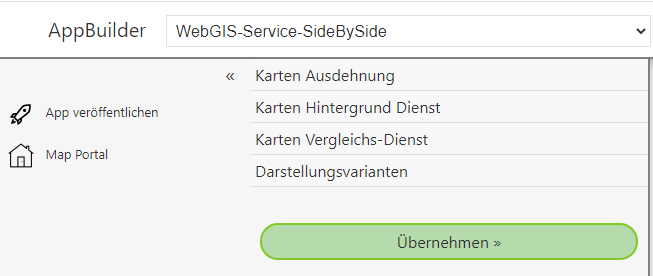
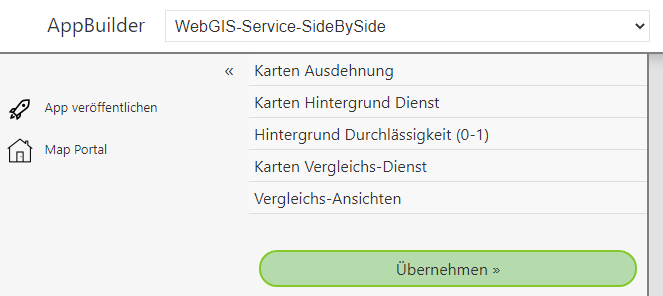
webgis-docs: AppBuilder

Changed region(s): [[0.0, 0.0, 1.0, 1.0], [0.0, 0.3188, 0.245, 0.6087]]

diff --git a/de/webgis-cloud/source/AppBuilder/service-side-by-side/index.rst b/de/webgis-cloud/source/AppBuilder/service-side-by-side/index.rst
@@ -1,5 +1,5 @@
-Service Side-by-Side
-====================
+App Template: Service Side-by-Side
+==================================
 
 Mit dieser Vorlage gesteht die Möglichkeit einen Kartendienst in unterschiedlichen Darstellungen nebeneinander darzustellen.
 Die Trennlinie zwischen den beiden Darstellungen ist dabei frei verschiebar, damit besserer Eindruck der Unterschiede erkennbar wird.
@@ -11,3 +11,72 @@ Wähle man die Vorlauge aus, können folgende Parameter angegeben werden:
 
 .. image:: img/side-by-side1.png
 
+Hier eine Beschreibung der einzelnen Parameter:
+
+Karten Ausdehnung
+-----------------
+
+Für jede WebGIS API Karten Anwendung muss eine Kartenausdehnung angegeben werden. Neben der Ausdehnung werden damit auch die Zoomstufen und die Kartenprojektion 
+definiert (siehe Definition einer Ausdehnung im CMS).
+Hier werden alle verfügbaren Ausdehnung aus dem CMS aufgelistet. Durch anklicken eines Elements wird diesen ausgewählt.
+
+Karten Hintergrund Dienst
+-------------------------
+
+Der Kartendienst, der zum Vergleich herangezogen wird, ist in der Regel im WMS/AGS Dienst. Diese haben den Nachteil, dass die Anzeige nicht so flüssig erscheint, 
+wie bei einem vorprozessierten *Tiling* Dienst. Damit die App beim Verändern des Kartenausschnittes trotzdem flüssig wirkt, muss hier Hintergrund Dienst angegeben werden,
+der unter dem eigentlich Dienst, der verglichen werden sollte, dargestellt wird.
+
+.. note:: 
+   Der Hintergrund Dienst sollte ein *Tiling* Dienst sein. Außerdem ist darauf zu achten, dass der Dienst zur oben gewählten Ausdehnung passt (Projektion und Zoomstufen)
+
+Hintergrund Durchlässigkeit
+---------------------------
+
+Da der Hintergrund Dienst nur der Usability und der Orientierung dient, es also quasi ein Nebendarsteller in der Anwendung ist, kann dieser transparent (aufgehellt) dargestellt werden.
+Hier kann ein Wert zwischen 0 und 1 angeben werden, wobei ``0`` komplett durchlässig und ``1`` komplett deckend bedeutet.
+
+Karten Vergleichs Dienst
+------------------------
+
+Hier wird der eigentliche Dienste angegeben, der verglichen werden soll. Es werden wieder alle im CMS Verfügbaren Dienste aufgelistet. Es kann dabei genau ein Dienst ausgewählt werden.
+
+Vergleichs-Ansichten
+--------------------
+
+Damit Daten aus dem Dienst vergleichen werden können, muss der Dienst links und rechts mit unterschiedlichen Layerschaltungen dargestellt werden. Welche Layer das sind,
+kann hier festgelegt werden. Die Möglichkeiten beschränken sich dabei nicht auf zwei Varianten sondern es können beliebig viele Ansichten definiert werden.
+Der Anwender kann in der App dann für Seite die gewünschte Ansicht wählen:
+
+.. image:: img/side-by-side2.png
+
+Für diese Ansichten werden nicht die Darstellungsvarianten für diesen Dienst aus dem CMS herangezogen, sondern die einzelnen Schaltungen werden hier hier im *Json* Format eingetragen.
+Öffnet man den *JSON Editor* zuerst einen Beispiel eingefügt werden, dass dann auf die eigenten Bedürfnisse angepasst werden kann:
+
+.. image:: img/side-by-side3.png
+
+.. note::
+   Bei JSON handelt es sich die Javascript Beschreibung eines Objekte. Das eingefügte Beispiel ist zuerst noch *auskommentiert*. Um es zu verwenden, müssen zuerst die Zeilen mit ``/*`` und ``*/`` entfernt werden
+
+Bei den einzelnen Ansichten müssen die Ids der betroffen Layer als *Array* angeführt werden. Die einzelnen Ids müssen Zeichenketten sein (umgeben von doppeltem Hochkomma): ``"layers": ["1", "2", "3"]``.
+Da es sich bei den Ansichten um eine Auflisting (Array) handelt, müssen die Element mit Bestrich getrennt werden und von eckigen Klammen umgeben sein. Die einzelnen Ansichten Element werden durch geschwungene
+Klammern definiert. Als Attribute können ``name`` und ``layers`` angeführt werden.
+
+Ein gültiges JSON sieht hier beispielsweise folgendermaßen aus:
+
+.. code::
+
+   [
+        {
+            "name": "Befliegung 3 (2020)",
+            "layers": ["0","21"]
+        },
+        {
+            "name": "Befliegung 2 (2015)",
+            "layers": ["12","14"]
+        }
+   ]
+
+Mit dem ``Save`` Button kann das JSON gespeichert werden. 
+
+Zum Abschluss kann die App mit ``Übernehmen`` in der Vorschau angezeigt und danach mit ``App Veröffentlichen`` veröffentlicht werden.

diff --git a/de/webgis-cloud/source/AppBuilder/invoke.rst b/de/webgis-cloud/source/AppBuilder/invoke.rst
@@ -1,0 +1,75 @@
+App Aufrufen/Öffnen
+===================
+
+Die einfachst Methode ein veröffentlichte App zu öffnen ist es, die entsprechende Kachel auf der Portalseite anzuklicken. Die Kachel für die App sollte nach dem
+veröffentlichten unter der gewählten Kategorie erscheinen. Dies allerdings nur möglich, wenn beim veröffentlichten unter Sichtbarkeit ``sichtbar`` gewählt wurde.
+Ansonsten kann wird die App nur für den Kartenautor angezeigt (transparente Kachel) oder kann direkt über den Link aufgerufen werden.
+
+Aufruf über Link
+----------------
+
+Der Link für wird ersichtlich wenn die App über die Portalseite aufgerufen wird. Dies sollte für den Kartenautor immer Möglich sein. Der Link 
+hab beispielsweise folgende Form:
+
+``https://myserver.com/App/PortalApp/{portal-page-id}?app={name-der-app}&category={kategorie-der-app}``
+
+
+Neben den zwingenden Url Parametern ``app`` und ``category`` können noch weitere optionale Parameter übergeben, um in der App beispielsweise auf eine bestimmten Kartenausschnitt zu springen:
+
+* ``bbox``: die Boundingbox auf die gesprungen werden sollte. Es kann dafür ebenfalls noch der Parameter ``srs`` übergeben werden, um den EPSG Code für die Boundingbox anzugeben (default: 4326)
+
+* ``center`` und ``scale``: Kartenmittelpunkt (Longitude, Latitude) und Maßstab
+
+.. note::
+   Wird die App beispielsweise aus dem Kartenviewer aufgerufen, empfiehlt es sich meistens ``center`` und ``scale`` anstelle von ``bbox`` zu verwenden. Da die Größe der Kartenfenster nicht immer gleich
+   ist, wird die Anwendung mit ``bbox`` nicht mit dem gleichen Maßstab geöffnet.
+   
+.. note::
+   Ruf man die App aus dem Kartenviewer auf können im Link die entsprechenden Platzhalter für den aktuellen Ausschitt angegeben werden, z.B ``...&center={map.centerx},{map.centery}&scale={map.scale}``
+
+
+Aufruf aus über benutzerdefiniertes Werkzeug
+--------------------------------------------
+
+Wie schon beschrieben kann man eine App auch Link mit Übergabe von des aktuellen Kartenausschnittes aufrufen. Dadurch kann eine App seher einfach als *benutzerdefiniertes Werkzeug* in den
+Kartenviewer eingebunden werden. 
+
+Benutzerdefinierte Werkzeug werden in der ``custom.js`` Datei definiert (`siehe  <./../KartenViewer/CustomJS/benutzerdefmarker.html#benutzerdefinierte-werkzeuge>`__).
+
+
+Die Definition des Werkzeuges sieht etwa folgendermaßen aus:
+
+.. code::
+
+    webgis.custom.tools.add({
+        name: 'TOR Befliegungen',
+        command: 'https://myserver.com/App/PortalApp/dev?app=SideBySide&category=Allgemein&center={map.centerx},{map.centery}&scale={map.scale}',
+        command_target: 'dialog',
+        image: 'https://myserver.com/openwin.png'
+    });
+
+Hier wird ein Werkzeug definiert, die die App ``SideBySide`` aus der Kategorie ``Allgemein`` mit dem gleichen Maßstab wie die Karte in einem Dialogfenster öffnet.
+
+Aufruf über einen "Metadaten" Button
+------------------------------------
+
+Im CMS kann für jede Darstellungsvariante ein *Metadaten* Button definiert werden. Dieser wird in der Regel im TOC vor der Darstellungsvariante als (i) Button angezeigt.
+Dies dient vor allem, um einen Link zu Metadaten für ein Thema anzuzeigen. 
+
+Da man dem hier hinterlegten Link auch die oben gezeigen Platzhalter für den aktuelle Kartenausschnitt angeben kann und der Button auch in anderer Form dargestellt werden kann,
+bietet der "Metadaten" Button eine weiter Option die zum Aufrufen eine App.
+
+.. note::
+   Vorteil ist auch, dass der Aufruf einer App immer/nur möglich ist, wenn ein bestimmtes Thema in der Karte vorhanden ist. 
+
+Als Beispiel dient her der Vergleich von Luftbild Befliegungen. In einen Dienst, der in einer Karte eingebunden ist, gibt es Darstellungsvarianten für die 
+unterschiedlichen Befliegungen. Der Anwender kann diese einzeln sichtbar schalten. An dieser Stelle im TOC sollte es auch Möglich sein, die App mit dem *Side-by-Side* 
+Vergleich der einzelnen Befliegungen in einem Dialog aufzurufen.
+
+Im CMS muss dazu in der Darstellungvariante unter der der Button erscheinen sollte folgende Einstellungen treffen:
+
+.. image:: img/appbuilder4.png
+
+Für den Anwender sieht dieser Button im TOC folgendermaßen aus:
+
+.. image:: img/appbuilder5.png

diff --git a/de/webgis-cloud/source/AppBuilder/publish.rst b/de/webgis-cloud/source/AppBuilder/publish.rst
@@ -1,0 +1,17 @@
+App Veröffentlichen
+===================
+
+Wurden für ein App-Template alle Parameter eingetragen und entspricht die Darstellung in der Vorschau den Vorstellungen, kann die App mit dem 
+*Sidebar* Button ``App Veröffentlichen`` veröffentlicht werden.
+
+Mit Veröffentlichen wird diese App dann auf der Portalseite angezeigt (falls nicht als unsichtbar definiert) bzw. kann über die entsprechende Url 
+aufgerufen werden.
+
+Klickt man auf den Button ``App Veröffentlichen`` erscheint analog zum *MapBuilder* folgender Dialog:
+
+.. image:: img/appbuilder3.png
+
+Hier kann eine Kategorie und eine Name für diese App angefügt werden. Über *Sichtbarkeit* wird angegeben werden, ob die App auf der Portalseite als Kachel dargestellt 
+wird. Wenn hier ``versteckt`` angegeben wird, ist sie für einen Anwender nicht sichtbar und kann nur über einen Link aufgerufen werden. Das macht Sinn, wenn die App
+beispielsweise aus dem Kartenviewer über ein benutzerdefiniertes Werkzeug oder einen Hotlink aufgerufen wird.
+

diff --git a/de/webgis-cloud/source/AppBuilder/index.rst b/de/webgis-cloud/source/AppBuilder/index.rst
@@ -21,10 +21,13 @@ Durch einen Klick auf einen Parameter klappt der entsprechtende Bereich auf. Wen
 Ist eine App erstellt und erscheint korrekt im Vorschaubereich, kann sie über den Button ``App Veröffentlichen`` als Kachel in die Portalseite übernommen.
 Gleich wie beim *MapBuilder* muss auch hier eine Name und eine Kategorie vergeben werden.
 
-In dieser Beschreibung werden einige diese Vorlagen kurz vorgestellt.
+In dieser Beschreibung werden einige diese Vorlagen kurz vorgestellt und gezeigt, wie eine App veröffentlicht und aufgerufen werden kann.
 
 .. toctree::
-   :maxdepth: 2
+   :maxdepth: 1
 
    redirect/index
    service-side-by-side/index
+   publish
+   edit
+   invoke

diff --git a/de/webgis-cloud/source/AppBuilder/redirect/index.rst b/de/webgis-cloud/source/AppBuilder/redirect/index.rst
@@ -1,5 +1,5 @@
-Redirect App
-============
+App Template: Redirect App
+==========================
 
 Die wohl einfachste *App* ist die Vorlage, die unter WebGIS-Redirect zu finden ist. Diese Vorlage dient dazu einen
 Anwender zu einer bestimmten Webseite umzuleiten.
@@ -16,3 +16,4 @@ Klickt der Anwender auf diese Kachel, wir er auf die hier angegebene Webseite um
 
 Mit die *App* ist es möglich beliebige Webseiten über die Portalseite anzuspringen. So können beispielsweise auch 
 *DataLinq* Seiten wie eine Karte auf der Portalseite angeboten werden.
+

diff --git a/de/webgis-cloud/source/AppBuilder/edit.rst b/de/webgis-cloud/source/AppBuilder/edit.rst
@@ -1,0 +1,10 @@
+App bearbeiten
+==============
+
+Müssen die Parameter für eine App angepasst, ist dies für den Kartenautor auch nachträglich möglich.
+Dazu muss der Kartenautor die App öffnen. Unten Links erscheint ein Symbol über den sich der AppBuilder für diese App öffnen lässt:
+
+.. image:: img/appbuilder6.png
+
+Der AppBuilder wird dem entsprechenden Template geöffnet und die Parameter können angepasst werden. Danach kann die App wieder
+mit ``App veröffentlichen`` aktualisiert werden.

diff --git a/de/webgis-cloud/source/MapBuilder/index.rst b/de/webgis-cloud/source/MapBuilder/index.rst
@@ -1,7 +1,7 @@
 Map Builder
 ===========
 
-Eine grundlegende Einführung in die Funktionsweise des MapBuilders wird im Tutorial gezeigt.
+Eine grundlegende Einführung in die Funktionsweise des MapBuilders wird im `Tutorial <./../Tutorials/mapbuilder.html>`__ gezeigt.
 
 Hier werden weiterführende Themen beschrieben.
 
